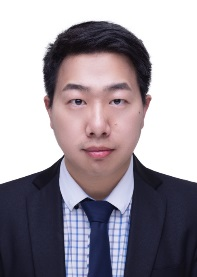
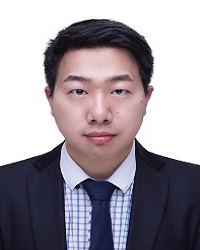
头像

diff --git a/info/1055/1078.htm b/info/1055/1078.htm
@@ -325,7 +325,7 @@
 <p style="text-indent:28px"><br></p>
 
 <p style="line-height:150%"><strong><span style="font-size:17px;line-height:150%;font-family: georgia;color:#001F5F">报告5：</span></strong></p>
-<p style="text-align: center"><img src="../../images/luntan/zhangyun.png" width="200" alt="嘉宾图片" class="img_vsb_content"></p>
+<p style="text-align: center"><img src="../../images/luntan/zhangyuan.png" width="200" alt="嘉宾图片" class="img_vsb_content"></p>
 <p style="line-height:150%"><strong><span style="font-size:17px;line-height:150%;font-family:方正兰亭刊黑_gbk;color:#001F5F">嘉宾简介：</span></strong><span style="font-size:17px;line-height:150%;font-family:方正兰亭刊黑_gbk;color:#001F5F">张源，复旦大学计算机学院副教授、博导，白泽战队指导老师。主要研究方向为安全攻防技术。入选上海市启明星计划，ACM SIGSAC中国新星奖、ACM中国新星提名奖。研究工作主要发表于网络与系统安全领域的四大顶会（目前共发表/录用14篇）。担任IEEE S&P，USENIX Security，EuroS&P，ESORICS，AsiaCCS等会议的程序委员会委员，Empirical Software Engineering Journal编委，软件学报“系统软件安全”专刊特邀编委。带领白泽战队获得2020年全国大学生信息安全竞赛创新实践能力赛冠军，2019年、2020年全国高校网安联赛（X-NUCA）团队赛冠军、个人赛冠军，2019年、2020年西湖论剑CTF比赛冠军，发现的多个软硬件高危漏洞入围GeekPwn和XPwn漏洞榜。 个人主页：https://yuanxzhang.github.io/。</span></p>
 <p style="line-height:150%"><strong><span style="font-size:17px;line-height:150%;font-family:方正兰亭刊黑_gbk;color:#001F5F">报告题目：操作系统内核引用计数缺陷检测</span></strong></p>
 <p style="line-height:150%"><strong><span style="font-size:17px;line-height:150%;font-family:方正兰亭刊黑_gbk;color:#001F5F">报告摘要：</span></strong><span style="font-size:16px;line-height:150%;font-family:方正兰亭刊黑_gbk;color:#001F5F">资源管理是操作系统内核的重要组成。目前，Linux等内核中普遍使用引用计数来管理系统资源的生命周期。随着内核代码的复杂性与日俱增，引用计数缺陷导致的安全问题频繁发生，对内核安全性带来巨大隐患。然而，由于引用计数的管理与程序语义紧密相关，使得内核引用计数的缺陷检测非常困难。本次报告将系统性的梳理内核引用计数缺陷检测面临的若干挑战，并分享一种新型缺陷检测思路。该思路基于引用计数路径的不一致性检查，可以在避免复杂语义分析的同时有效检测未知的引用计数缺陷。</span></p>
